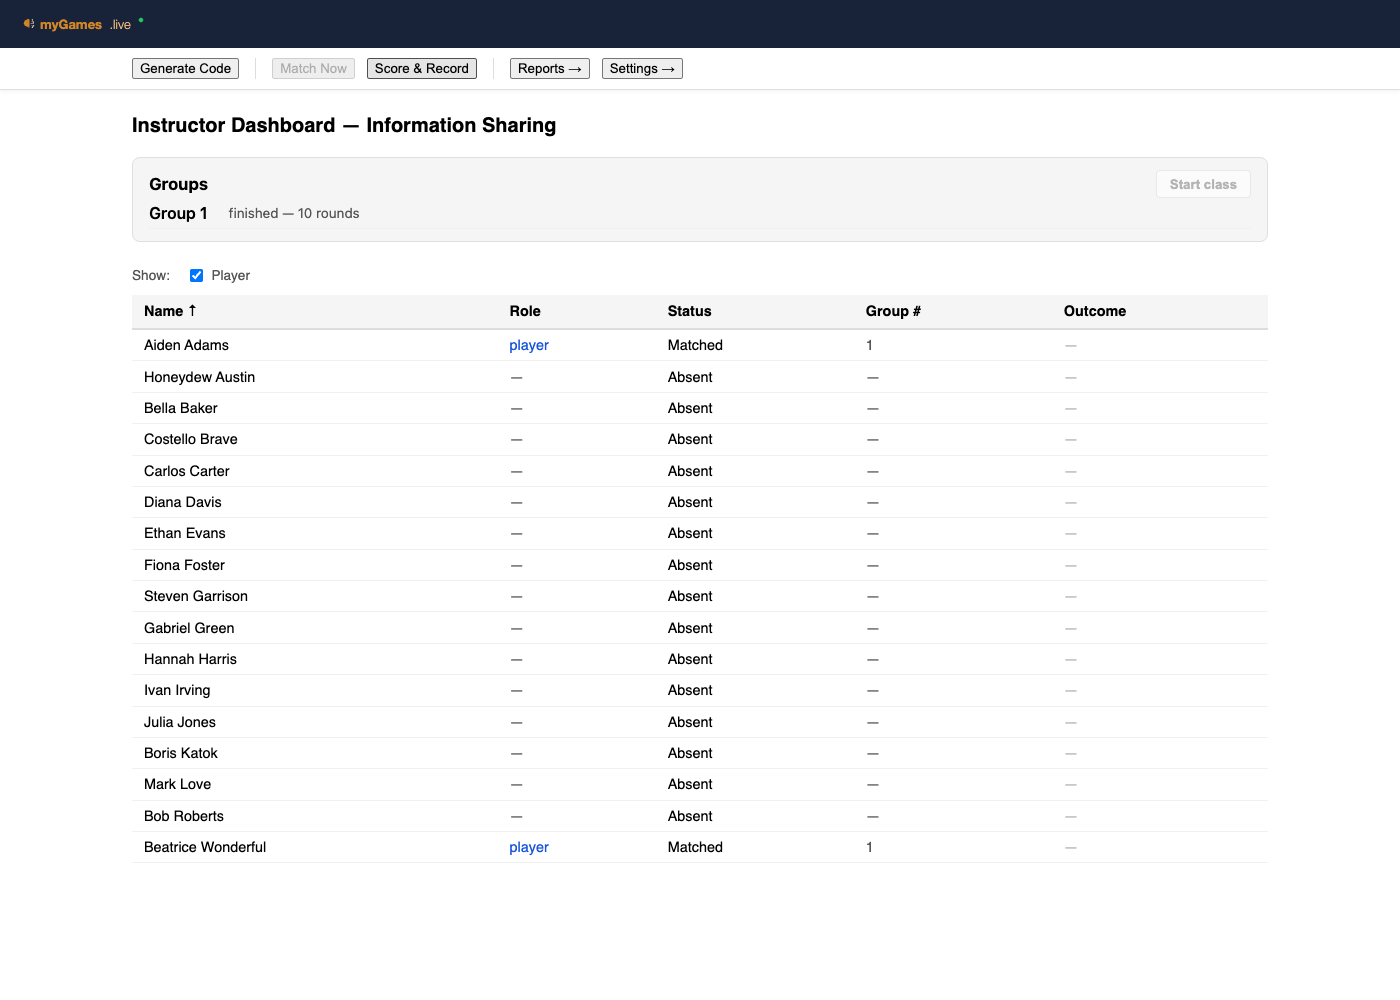
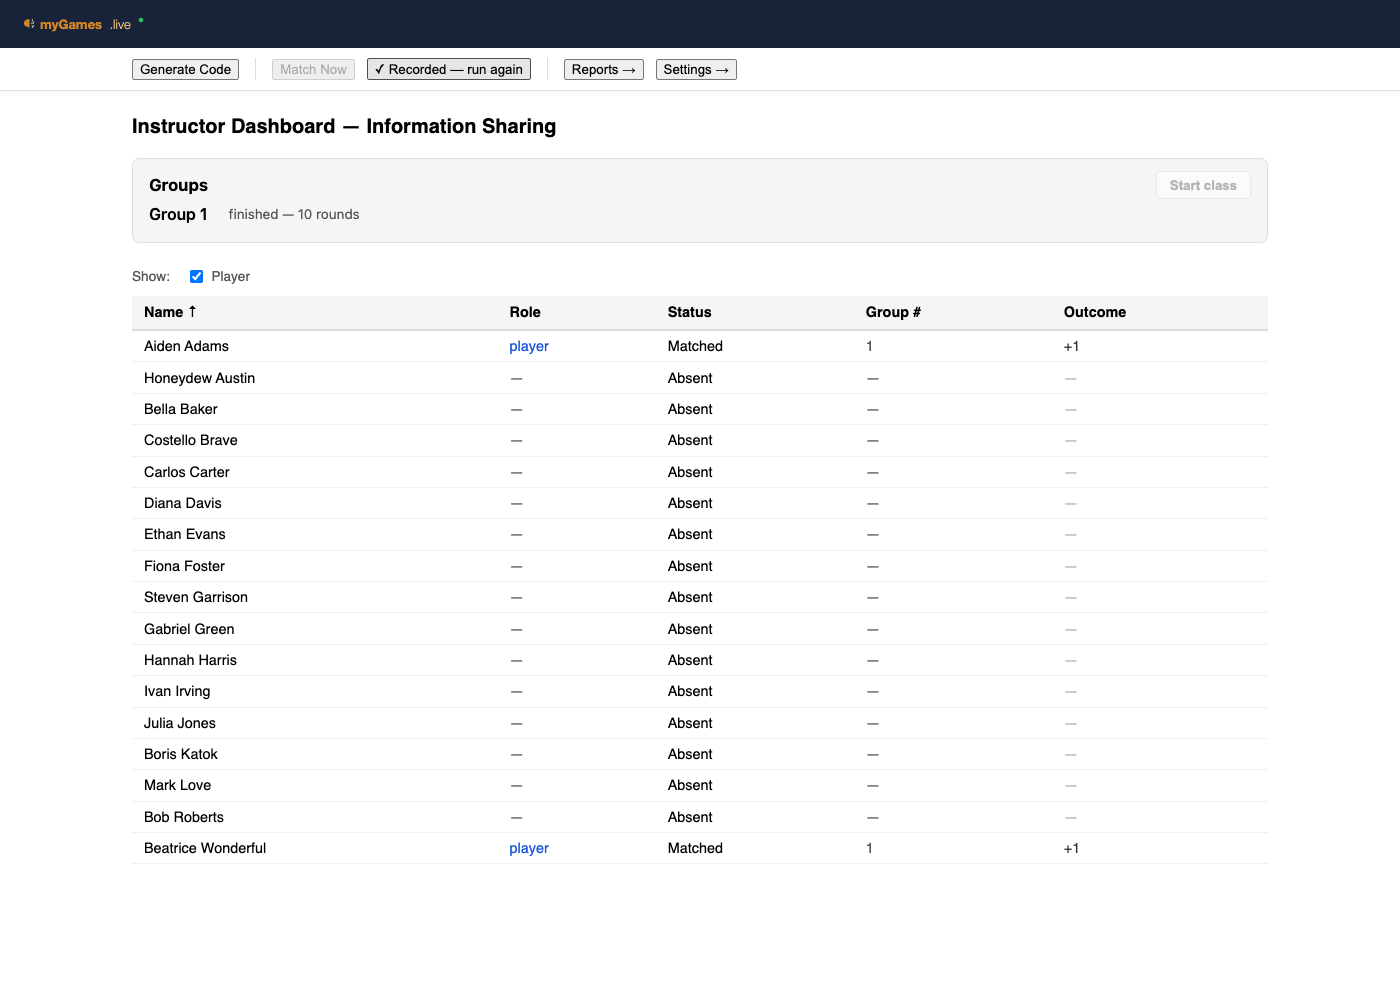
infoshare: the online panel crashed production — it was reading crisis's shape
Uncaught TypeError: can't access property "length", t.members is undefined

⚠ THE TYPE WAS THE BUG. `OnlineGroup` in api.ts declared crisis's shape —
`members`, `size`, `locked` — so TypeScript could not catch the component reading
fields the deployed function never returns. It compiled clean and threw on a real
dashboard, blanking the page.

Read off the DEPLOYED getOnlineGroups response, not the source and not memory:
  { ok, seat_count, groups: [ { group_id, group_number, started, seat_count,
    free_seats, occupants: [ { participant_id, display_name, email, is_bot } ] } ],
    no_group: [...] }

  members → occupants   locked → started   size → seat_count/free_seats

⚠ NOT PAPERED OVER WITH `members?.length ?? 0`. That stops the crash and renders
an empty panel — a silent failure instead of a loud one, on a control an
instructor needs to trust.

Three things the response already carried that the component was recomputing or
ignoring: `no_group` (the pool was being derived from the roster — a second
implementation that drifts), `seat_count` (was hardcoded), and `is_bot` (so bot
counts and 🤖 markers are now shown, and a robot has no ungroup button).

`OnlineMember` is kept as its own type: the student-side group-reveal reads a
Firestore DOC whose members genuinely differ from the callable's occupants.
Collapsing them is how this happened.

ERROR BOUNDARY (PanelBoundary). Neither crisis nor game-ui has one — infoshare is
[…]

diff --git a/frontend/src/pages/OnlineMatchControl.tsx b/frontend/src/pages/OnlineMatchControl.tsx
@@ -2,8 +2,8 @@ import { useCallback, useEffect, useState } from 'react'
 import { colors, typography, spacing } from '@mygames/game-ui'
 import {
   getOnlineGroups, groupParticipantsOnline, moveSeat, fillRemainderWithBots,
-  topUpGroupWithBots, getRoster,
-  type OnlineGroup,
+  topUpGroupWithBots,
+  type OnlineGroup, type OnlineOccupant,
 } from '../api'
 
 // ═══════════════════════════════════════════════════════════════════════════════
@@ -43,23 +43,25 @@ const btn: React.CSSProperties = {
 
 export default function OnlineMatchControl({ onChanged }: { onChanged?: () => void }) {
   const [groups, setGroups] = useState<OnlineGroup[]>([])
-  const [pool, setPool] = useState<{ participant_id: string; display_name: string }[]>([])
+  const [pool, setPool] = useState<OnlineOccupant[]>([])
+  const [seatCount, setSeatCount] = useState(GROUP_SIZE)
   const [busy, setBusy] = useState(false)
   const [error, setError] = useState<string | null>(null)
   const [note, setNote] = useState<string | null>(null)
 
   const refresh = useCallback(async () => {
     try {
-      const [g, roster] = await Promise.all([getOnlineGroups(), getRoster()])
-      setGroups(g.groups ?? [])
-      // ⚠ THE POOL IS DERIVED, NOT STORED. An ungrouped student appears in no group by
-      // definition, so the only way to see them is to subtract: everyone on the roster
-      // who is in none of the groups. Bots are excluded — a robot in the "no group" list
-      // would read as a student who needs placing.
-      const inAGroup = new Set((g.groups ?? []).flatMap((x) => x.members.map((m) => m.participant_id)))
-      setPool((roster.participants ?? [])
-        .filter((p) => !inAGroup.has(p.participant_id) && !String(p.participant_id).startsWith('bot_'))
-        .map((p) => ({ participant_id: p.participant_id, display_name: p.display_name })))
+      /*
+        ⚠ THE SERVER ALREADY COMPUTES THE NO-GROUP POOL AND THE SEAT COUNT. An earlier
+        version derived the pool by subtracting grouped students from the roster — a
+        second implementation of something the response already carries in `no_group`,
+        which would drift the moment the server's notion of "eligible" changed. It also
+        hardcoded a seat count the response supplies.
+      */
+      const r = await getOnlineGroups()
+      setGroups(r.groups ?? [])
+      setPool(r.no_group ?? [])
+      if (typeof r.seat_count === 'number') setSeatCount(r.seat_count)
       setError(null)
     } catch (e) { setError(e instanceof Error ? e.message : String(e)) }
   }, [])
@@ -84,9 +86,9 @@ export default function OnlineMatchControl({ onChanged }: { onChanged?: () => vo
     } finally { setBusy(false) }
   }
 
-  const anyStarted = groups.some((g) => g.locked)
-  const grouped = groups.reduce((n, g) => n + g.members.length, 0)
-  const short = groups.filter((g) => g.members.length < GROUP_SIZE)
+  const anyStarted = groups.some((g) => g.started)
+  const grouped = groups.reduce((n, g) => n + g.occupants.length, 0)
+  const short = groups.filter((g) => g.free_seats > 0)
 
   return (
     <section data-testid="online-match-control" style={{ marginTop: spacing.gapSm }}>
@@ -146,37 +148,40 @@ export default function OnlineMatchControl({ onChanged }: { onChanged?: () => vo
       {groups.length > 0 && (
         <div style={{ marginTop: spacing.gapMd, display: 'flex', flexDirection: 'column', gap: '0.3rem' }}>
           {groups.map((g, i) => (
-            <div key={g.group_id} data-testid={`online-group-${i + 1}`}
+            <div key={g.group_id} data-testid={`online-group-${g.group_number ?? i + 1}`}
               style={{ display: 'flex', alignItems: 'center', gap: spacing.gapSm, flexWrap: 'wrap',
                        paddingBottom: '0.3rem', borderBottom: `1px solid ${colors.borderFaint}` }}>
-              <span style={{ minWidth: 70, fontWeight: 600 }}>Group {i + 1}</span>
+              <span style={{ minWidth: 70, fontWeight: 600 }}>Group {g.group_number ?? i + 1}</span>
               <span style={{ fontSize: typography.sizeSm,
-                             color: g.members.length < GROUP_SIZE ? '#b45309' : colors.textSecondary }}>
-                {g.members.length}/{GROUP_SIZE} seats{g.locked ? ' · started' : ''}
+                             color: g.free_seats > 0 ? '#b45309' : colors.textSecondary }}>
+                {g.occupants.length}/{g.seat_count ?? seatCount} seats
+                {g.occupants.some((o) => o.is_bot) &&
+                  ` · ${g.occupants.filter((o) => o.is_bot).length} robot`}
+                {g.started ? ' · started' : ''}
               </span>
               {/* A SHORT group can be topped up on its own — the remainder button only
                   helps students who are in NO group. Both cases occur in a real class. */}
-              {!g.locked && g.members.length < GROUP_SIZE && (
+              {!g.started && g.free_seats > 0 && (
                 <button
-                  data-testid={`online-topup-${i + 1}`}
+                  data-testid={`online-topup-${g.group_number ?? i + 1}`}
                   disabled={busy}
                   style={{ fontSize: typography.sizeXs, padding: '0.1rem 0.4rem', cursor: 'pointer' }}
                   onClick={() => act('Top up', async () => {
                     const r = await topUpGroupWithBots(g.group_id)
-                    setNote(r.added ? `Added ${r.added} robot seat(s) to Group ${i + 1}` : 'Group already full')
+                    setNote(r.added ? `Added ${r.added} robot seat(s) to Group ${g.group_number ?? i + 1}` : 'Group already full')
                     return r
                   })}
                 >Add a robot</button>
               )}
-              {g.members.map((m) => (
+              {g.occupants.map((m) => (
                 <span key={m.participant_id} style={{ fontSize: typography.sizeSm, display: 'inline-flex', alignItems: 'center', gap: 4 }}>
-                  {m.display_name}
+                  {m.display_name}{m.is_bot ? ' 🤖' : ''}
                   {/*
                     UNGROUP — the instructor's way of declaring a no-show. It matters for
                     grading, not tidiness: a student left in a group is scored as a
                     participant even if the group never started.
                   */}
-                  {!g.locked && (
+                  {!m.is_bot && !g.started && (
                     <button
                       data-testid={`online-ungroup-${m.participant_id}`}
                       title="Remove from the group (declares a no-show)"

diff --git a/frontend/src/api.ts b/frontend/src/api.ts
@@ -342,8 +342,41 @@ export const submitInstructorOutcome = (groupId: string, outcome: OutcomeFields 
   callFn<{ ok: boolean }>('submitInstructorOutcome', { group_id: groupId, outcome })
 
 // ── Online-mode instructor grouping (Slice O1) ──────────────────────────────────
+/*
+  ⚠ THIS TYPE WAS CRISIS'S SHAPE, AND THAT IS WHY THE PANEL CRASHED IN PRODUCTION.
+  It declared `members`, `size` and `locked`; the deployed getOnlineGroups returns
+  `occupants`, `seat_count`/`free_seats` and `started`. TypeScript could not catch the
+  mismatch because the type itself was the lie — the component compiled cleanly and then
+  threw `can't access property "length", t.members is undefined` on a real dashboard.
+
+  Read off the deployed function's actual response, not the source and not from memory:
+    { ok, seat_count, groups: [ { group_id, group_number, started, seat_count,
+      free_seats, occupants: [ { participant_id, display_name, email, is_bot } ] } ],
+      no_group: [...] }
+*/
+/**
+ * The group-reveal DOCUMENT's member shape — a Firestore doc the student screen reads.
+ * ⚠ NOT the same as OnlineOccupant below. Two different surfaces genuinely carry two
+ * different shapes; collapsing them is how the dashboard ended up reading `members` off
+ * a callable that returns `occupants`.
+ */
 export type OnlineMember = { participant_id: string; display_name: string; email: string | null }
-export type OnlineGroup  = { group_id: string; members: OnlineMember[]; size: number; locked: boolean }
+
+/** One seat as the getOnlineGroups CALLABLE returns it. */
+export type OnlineOccupant = {
+  participant_id: string
+  display_name:   string
+  email:          string | null
+  is_bot:         boolean
+}
+export type OnlineGroup = {
+  group_id:     string
+  group_number: number
+  started:      boolean
+  seat_count:   number
+  free_seats:   number
+  occupants:    OnlineOccupant[]
+}
 
 /** Pre-form random groups from the roster (online mode; re-runnable until the first lock). */
 export const groupParticipantsOnline = () =>
@@ -352,7 +385,8 @@ export const groupParticipantsOnline = () =>
 
 /** clock_mode + the online groups (with members) for the grouping panel. */
 export const getOnlineGroups = () =>
-  callFn<{ ok: boolean; clock_mode: string; groups: OnlineGroup[] }>('getOnlineGroups', {})
+  callFn<{ ok: boolean; seat_count: number; groups: OnlineGroup[]; no_group: OnlineOccupant[] }>(
+    'getOnlineGroups', {})
 
 /** Move a human into another group (both modes; rejected once a group locks). If the destination is
  *  full but has a bot seat, the move EVICTS one bot (§O2.5B) — evicted_bot names it. */

diff --git a/frontend/src/pages/PanelBoundary.tsx b/frontend/src/pages/PanelBoundary.tsx
@@ -1,0 +1,53 @@
+import { Component, type ErrorInfo, type ReactNode } from 'react'
+
+// ═══════════════════════════════════════════════════════════════════════════════
+// AN ERROR BOUNDARY AROUND ONE PANEL.
+//
+// ⚠ A CRASHING PANEL MUST NOT BLANK THE PAGE. React unmounts the WHOLE TREE when a
+// render throws and nothing catches it, so one bad field reference in one panel took the
+// entire instructor dashboard to white — mid-session, with no message. That is what
+// `can't access property "length", t.members is undefined` did on production: the
+// dashboard did not degrade, it disappeared.
+//
+// ⚠ AND THE INSTRUCTOR NEEDS SOMETHING TO REPORT. A blank page tells Elena nothing she
+// can pass on; the error text and the panel name are the difference between "the
+// dashboard broke" and a one-line bug report. So the message is SHOWN, not just logged
+// to a console nobody has open during a class.
+//
+// Neither crisis nor game-ui has one of these — infoshare is the first. If it earns its
+// keep here it belongs in game-ui, wrapping every dashboard panel.
+// ═══════════════════════════════════════════════════════════════════════════════
+
+type Props = { name: string; children: ReactNode }
+type State = { error: Error | null }
+
+export default class PanelBoundary extends Component<Props, State> {
+  state: State = { error: null }
+
+  static getDerivedStateFromError(error: Error): State {
+    return { error }
+  }
+
+  componentDidCatch(error: Error, info: ErrorInfo) {
+    // Kept for the browser console too — the visible message is deliberately short.
+    console.error(`[infoshare] panel "${this.props.name}" crashed`, error, info.componentStack)
+  }
+
+  render() {
+    if (!this.state.error) return this.props.children
+    return (
+      <div
+        data-testid={`panel-error-${this.props.name}`}
+        role="alert"
+        style={{ margin: '0 0 1rem', padding: '0.6rem 1rem', border: '1px solid #fca5a5',
+                 borderRadius: 8, background: '#fef2f2', fontSize: '0.85rem' }}
+      >
+        <strong>The “{this.props.name}” panel could not be shown.</strong>
+        {' '}The rest of this page still works.
+        <div style={{ marginTop: '0.3rem', fontFamily: 'monospace', fontSize: '0.75rem', color: '#7f1d1d' }}>
+          {this.state.error.message}
+        </div>
+      </div>
+    )
+  }
+}

diff --git a/frontend/src/pages/GameControlStrip.tsx b/frontend/src/pages/GameControlStrip.tsx
@@ -3,6 +3,7 @@ import { SEATS_PER_GROUP } from '../groupSize'
 import { colors, typography, spacing } from '@mygames/game-ui'
 import OnlineMatchControl, { GROUP_BUTTON_LABEL } from './OnlineMatchControl'
 import { setClockMode } from '../api'
+import PanelBoundary from './PanelBoundary'
 import { getGameConfig, getGameDashboard, startAllGroups, type DashboardGroup } from '../api'
 
 // ═══════════════════════════════════════════════════════════════════════════════
@@ -257,7 +258,13 @@ export default function GameControlStrip() {
 
       {/* ⚠ ONLINE HAS NO "Match Now" — it pre-groups the roster instead. These are the
           controls that make an online session runnable at all. */}
-      {online && <OnlineMatchControl onChanged={refresh} />}
+      {/* ⚠ BOUNDED. This panel blanked the whole production dashboard once; a panel
+          that crashes must degrade to a reportable message, not take the page with it. */}
+      {online && (
+        <PanelBoundary name="Online grouping">
+          <OnlineMatchControl onChanged={refresh} />
+        </PanelBoundary>
+      )}
 
       {error && <p role="alert" data-testid="control-error" style={{ color: '#b91c1c', fontSize: typography.sizeXs, margin: `${spacing.gapSm} 0 0` }}>{error}</p>}
     </div>
